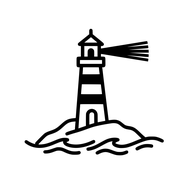
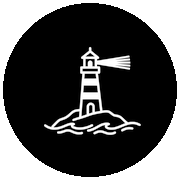
true message

diff --git a/client/src/pages/ResetPassword.tsx b/client/src/pages/ResetPassword.tsx
@@ -7,7 +7,7 @@ import { Label } from "@/components/ui/label";
 import { Alert, AlertDescription } from "@/components/ui/alert";
 import { toast } from "sonner";
 import { Eye, EyeOff, KeyRound, AlertCircle, Loader2, CheckCircle2, Shield, Lock } from "lucide-react";
-import { PasswordStrengthIndicator } from "@/components/PasswordStrengthIndicator";
+import { PasswordStrengthIndicator, PasswordConfirmIndicator } from "@/components/PasswordStrengthIndicator";
 
 export default function ResetPassword() {
   const [, setLocation] = useLocation();
@@ -22,6 +22,12 @@ export default function ResetPassword() {
   const [showConfirmPassword, setShowConfirmPassword] = useState(false);
   const [error, setError] = useState("");
   const [success, setSuccess] = useState(false);
+
+  // Validar token antes de exibir formulário
+  const { data: tokenValidation, isLoading: isValidatingToken } = trpc.auth.validateResetToken.useQuery(
+    { token },
+    { enabled: !!token, retry: false }
+  );
 
   const resetPasswordMutation = trpc.auth.resetPassword.useMutation({
     onSuccess: () => {
@@ -137,8 +143,27 @@ export default function ResetPassword() {
     );
   }
 
-  // Verificar se tem token - Tela de erro
-  if (!token) {
+  // Tela de loading enquanto valida token
+  if (isValidatingToken) {
+    return (
+      <div className="min-h-screen flex items-center justify-center bg-[#F5F7FA]">
+        <div className="flex flex-col items-center">
+          <div className="w-24 h-24 bg-[#0056A4] rounded-full flex items-center justify-center mb-6 animate-pulse">
+            <img 
+              src="/assets/logo/gorgen_logo_master_2048_transparent_white.png" 
+              alt="Gorgen Logo" 
+              className="w-16 h-16 object-contain"
+            />
+          </div>
+          <Loader2 className="h-8 w-8 text-[#0056A4] animate-spin mb-4" />
+          <p className="text-gray-500 text-sm">Validando link de recuperação...</p>
+        </div>
+      </div>
+    );
+  }
+
+  // Verificar se tem token ou se token é inválido - Tela de erro
+  if (!token || (tokenValidation && !tokenValidation.valid)) {
     return (
       <div className="min-h-screen flex">
         {/* Painel esquerdo - Branding */}
@@ -334,6 +359,7 @@ export default function ResetPassword() {
                     )}
                   </Button>
                 </div>
+                <PasswordConfirmIndicator password={formData.newPassword} confirmPassword={formData.confirmPassword} />
               </div>
 
               <Button

diff --git a/client/src/components/PasswordStrengthIndicator.tsx b/client/src/components/PasswordStrengthIndicator.tsx
@@ -110,3 +110,33 @@ export function PasswordStrengthIndicator({
 export function PasswordStrengthBar({ password }: { password: string }) {
   return <PasswordStrengthIndicator password={password} showRequirements={false} />;
 }
+
+// Componente de confirmação de senha
+interface PasswordConfirmIndicatorProps {
+  password: string;
+  confirmPassword: string;
+}
+
+export function PasswordConfirmIndicator({ password, confirmPassword }: PasswordConfirmIndicatorProps) {
+  if (!confirmPassword) return null;
+
+  const matches = password === confirmPassword;
+
+  return (
+    <div className={`flex items-center gap-2 mt-2 text-xs font-medium transition-colors duration-200 ${
+      matches ? "text-green-600" : "text-red-600"
+    }`}>
+      {matches ? (
+        <>
+          <Check className="h-4 w-4" />
+          <span>Senhas coincidem</span>
+        </>
+      ) : (
+        <>
+          <X className="h-4 w-4" />
+          <span>Senhas não coincidem</span>
+        </>
+      )}
+    </div>
+  );
+}

diff --git a/client/src/pages/Register.tsx b/client/src/pages/Register.tsx
@@ -7,7 +7,7 @@ import { Label } from "@/components/ui/label";
 import { Alert, AlertDescription } from "@/components/ui/alert";
 import { toast } from "sonner";
 import { Eye, EyeOff, UserPlus, AlertCircle, Loader2, CheckCircle2, Shield, Lock } from "lucide-react";
-import { PasswordStrengthIndicator } from "@/components/PasswordStrengthIndicator";
+import { PasswordStrengthIndicator, PasswordConfirmIndicator } from "@/components/PasswordStrengthIndicator";
 
 export default function Register() {
   const [, setLocation] = useLocation();
@@ -325,6 +325,7 @@ export default function Register() {
                     )}
                   </Button>
                 </div>
+                <PasswordConfirmIndicator password={formData.password} confirmPassword={formData.confirmPassword} />
               </div>
 
               <Button

diff --git a/server/auth-router.ts b/server/auth-router.ts
@@ -489,6 +489,19 @@ ${resetUrl}
     }),
 
   /**
+   * Validar token de reset de senha (verificar se ainda é válido)
+   */
+  validateResetToken: publicProcedure
+    .input(z.object({ token: z.string().min(1, "Token é obrigatório") }))
+    .query(async ({ input }) => {
+      const validation = await authDb.validatePasswordResetToken(input.token);
+      return {
+        valid: validation.valid,
+        // Não retornar userId por segurança
+      };
+    }),
+
+  /**
    * Alterar senha (usuário logado)
    */
   changePassword: protectedProcedure

diff --git a/todo.md b/todo.md
@@ -3045,3 +3045,7 @@ A cor #0056A4 é usada APENAS para texto azul de alto contraste (links, nomes de
 - [x] Criar página de reset de senha /reset-password/:token com design split-screen
 
 - [x] Implementar indicador de força de senha com feedback em tempo real (PasswordStrengthIndicator.tsx)
+
+- [x] Favicon: adicionar círculo preto atrás do farol com contraste 21:1 (máximo)
+- [x] Confirmação visual de senha (check/x) no campo confirmar senha (PasswordConfirmIndicator)
+- [x] Validação de token no backend antes de exibir formulário de reset (validateResetToken)
